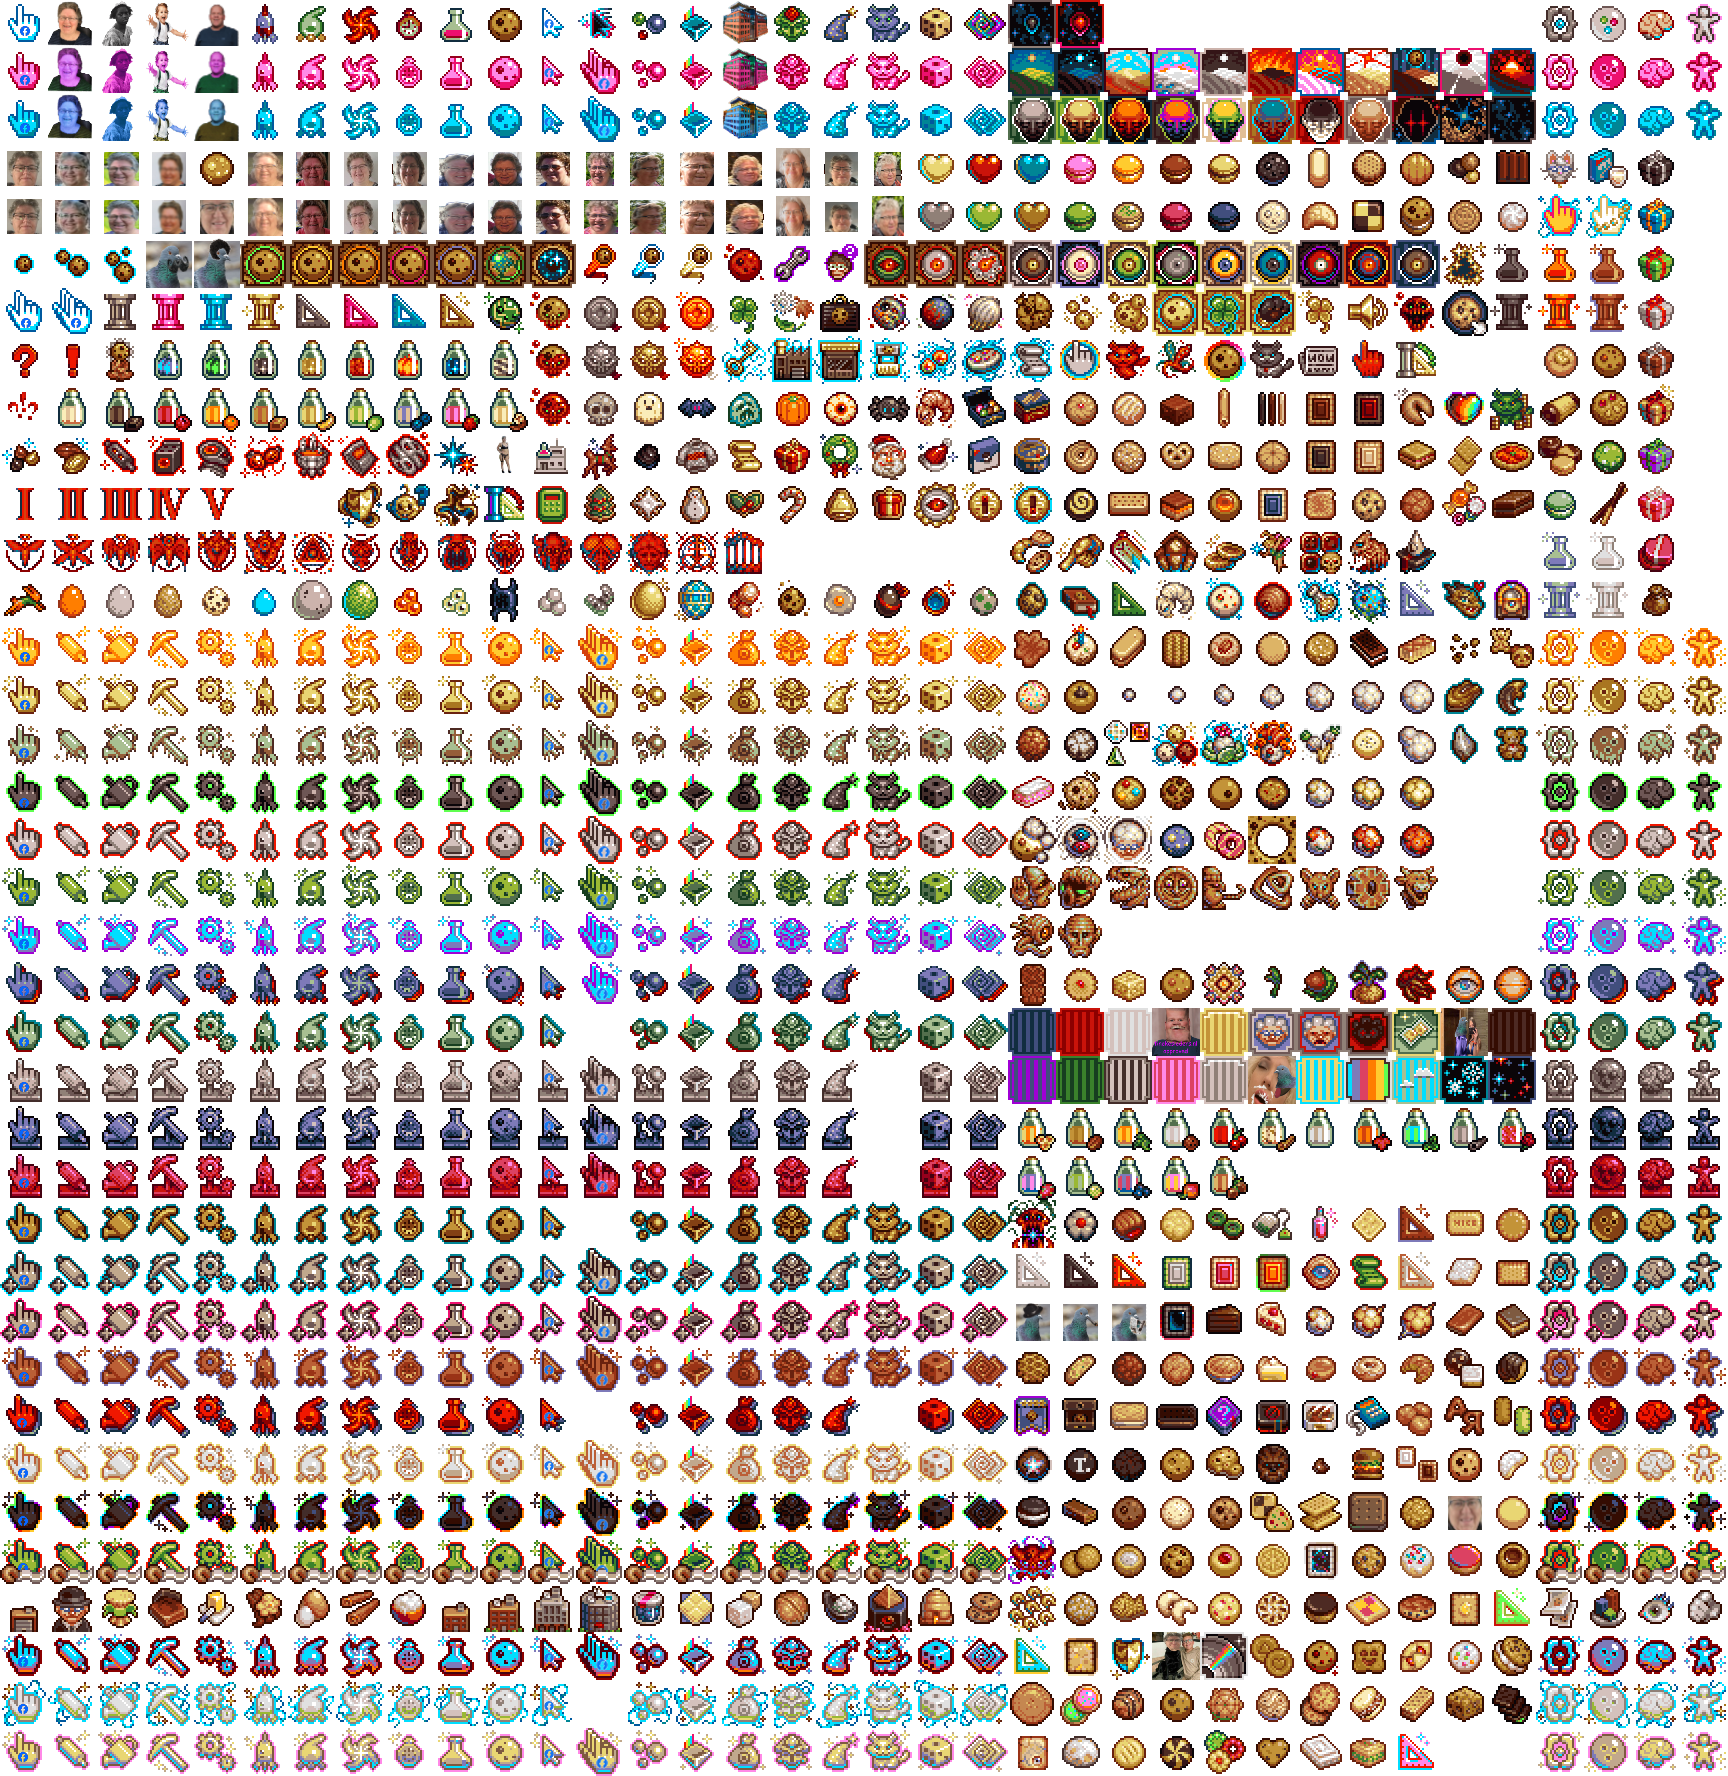
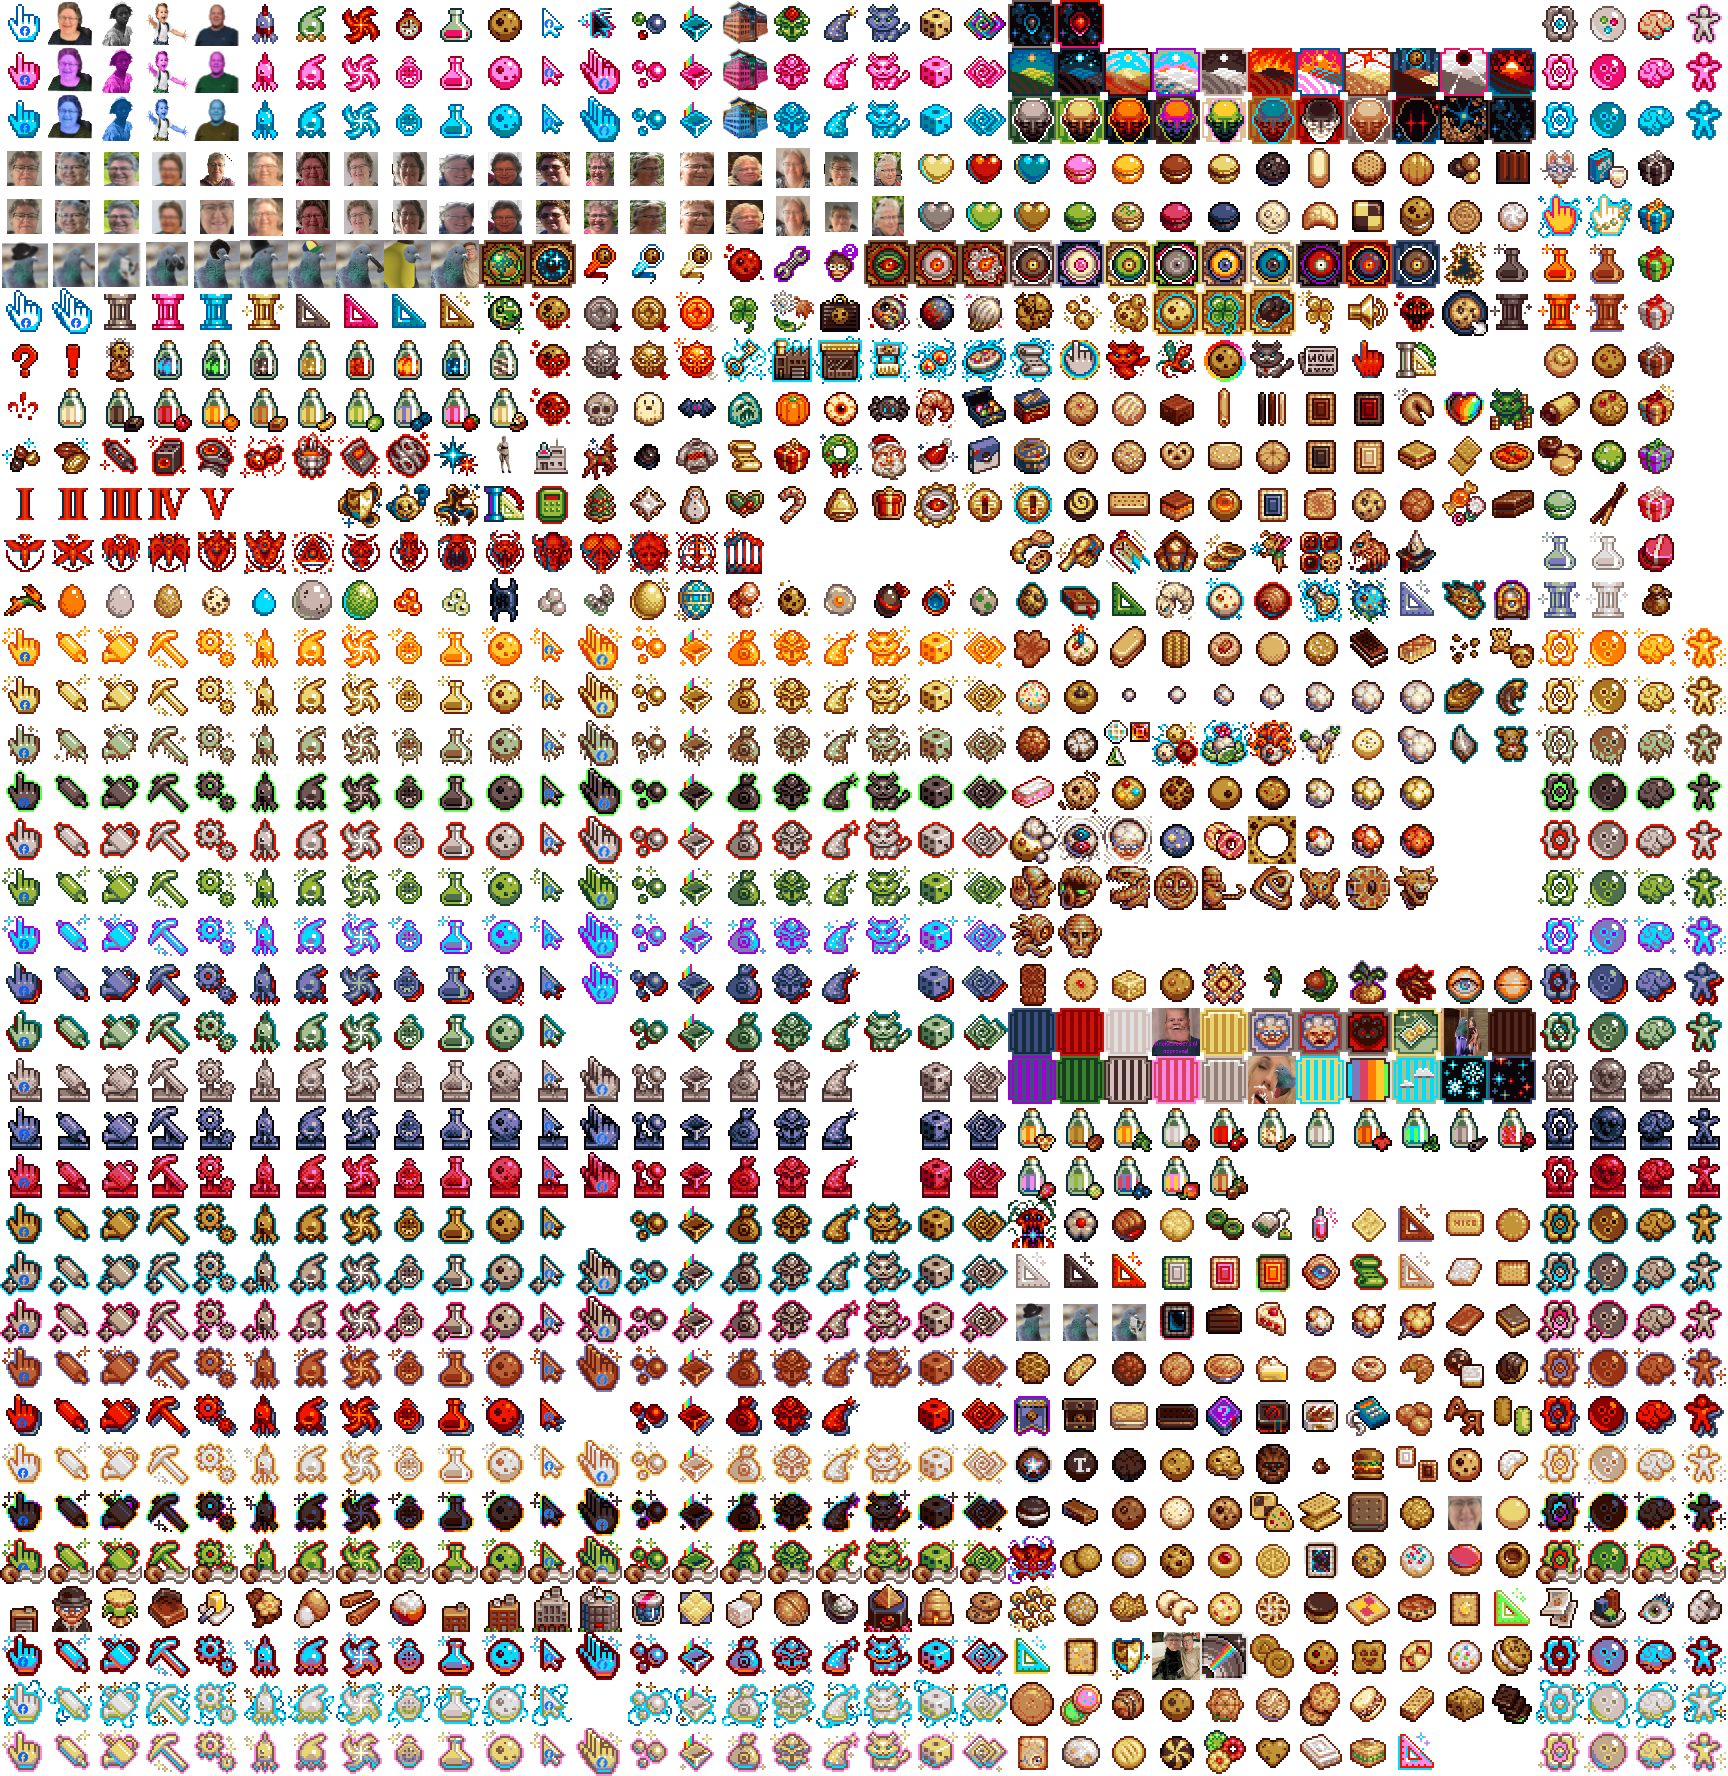
a

Changed region(s): [[0.0, 0.0929, 0.2812, 0.1858]]

diff --git a/loc/NL.js b/loc/NL.js
@@ -1444,7 +1444,7 @@ AddLanguage('NL','dutch',{
 	"Clot": "Prop",
 	"Dragon Harvest": "Drakenoogst",
 	"Everything must go": "Alles moet weg",
-	"Cursed finger": "Vervloekte vinger",
+	"Cursed finger": "Vervloekte Facebook Klikker",
 	"Cookie storm": "Koekjesstorm",
 	"Sugar blessing": "Suikerzegen",
 	"Haggler's luck": "Geluk van een pingelaar",
@@ -1493,7 +1493,7 @@ AddLanguage('NL','dutch',{
 	"Garden": "Tuin",
 	"Baker's wheat": "Bakkerstarwe",
 	"[Baker's wheat quote]A plentiful crop whose hardy grain is used to make flour for pastries.": "Een rijkelijk groeiend gewas waarvan het stevige graan wordt verwerkt tot meel om mee te bakken.",
-	"Thumbcorn": "Vingermaïs",
+	"Thumbcorn": "Facebook Klikker maïs",
 	"[Thumbcorn quote]A strangely-shaped variant of corn. The amount of strands that can sprout from one seed is usually in the single digits.": "Een maïskorrel met een bijzondere vorm. Het aantal uitlopers dat één korrel krijgt, is vaak op één hand te tellen.",
 	"Cronerice": "Karonjerijst",
 	"[Cronerice quote]Not only does this wrinkly bulb look nothing like rice, it's not even related to it either; its closest extant relative is the weeping willow.": "Dit verschrompelde zaadje lijkt niet op rijst en is er ook niet eens aan verwant. Hij is wel familie van de treurwilg.",
@@ -1868,13 +1868,13 @@ AddLanguage('NL','dutch',{
 	"Click to refill your opportunity timer (and give a quick burst to your economy) for %1.": "Klik om voor %1 je kansentimer bij te vullen (en geef je economie een snelle groei).",
 	"Profits: %1. All prices are in $econds of your highest raw cookies per second.": "Winst: %1. Alle prijzen zijn in seconden van je hoogste hoeveelheid rauwe koekjes per seconde.",
 	"The stock market is more chaotic.": "De aandelenmarkt is chaotischer.",
-	"[Upgrade name 0]Reinforced index finger": "Sterkere wijsvinger",
+	"[Upgrade name 0]Reinforced index finger": "Sterkere wijsende Facebook Klikker",
 	"[Upgrade name 1]Carpal tunnel prevention cream": "Crème tegen carpaletunnelsyndroom",
-	"[Upgrade name 2]Ambidextrous": "Met twee handen vingeren",
-	"[Upgrade name 3]Thousand fingers": "Duizend vingers",
-	"[Upgrade name 4]Million fingers": "Een miljoen vingers",
-	"[Upgrade name 5]Billion fingers": "Een miljard vingers",
-	"[Upgrade name 6]Trillion fingers": "Een biljoen vingers",
+	"[Upgrade name 2]Ambidextrous": "Met twee handen je moeder vingeren",
+	"[Upgrade name 3]Thousand fingers": "Duizend Facebook Klikkers",
+	"[Upgrade name 4]Million fingers": "Een miljoen Facebook Klikkers",
+	"[Upgrade name 5]Billion fingers": "Een miljard Facebook Klikkers",
+	"[Upgrade name 6]Trillion fingers": "Een biljoen Facebook Klikkers",
 	"[Upgrade name 7]Forwards from grandma": "Verder met oma neuken",
 	"[Upgrade name 8]Steel-plated rolling pins": "Stalen deegrollers in tineke's kutje",
 	"[Upgrade name 9]Lubricated dentures": "Gesmeerd gebit",
@@ -1911,7 +1911,7 @@ AddLanguage('NL','dutch',{
 	"[Upgrade name 40]Double-chip cookies": "Tineke's Koekjes met extra chocolade",
 	"[Upgrade name 41]White chocolate macadamia nut cookies": "Tineke's Macadamiakoekjes met witte chocolade",
 	"[Upgrade name 42]All-chocolate cookies": "Tineke's Koekjes met alleen chocolade",
-	"[Upgrade name 43]Quadrillion fingers": "Een biljard vingers",
+	"[Upgrade name 43]Quadrillion fingers": "Een biljard Facebook Klikkers",
 	"[Upgrade name 44]Prune juice": "Vaginalesap",
 	"[Upgrade name 45]Genetically-modified cookies": "Genetisch gemanipuleerde Tineke koekjes",
 	"[Upgrade name 46]Radium reactors": "Radiumreactors",
@@ -1950,7 +1950,7 @@ AddLanguage('NL','dutch',{
 	"[Upgrade name 79]Ultrascience": "Ultrawetenschap",
 	"[Upgrade name 80]Eclipse cookies": "Eclips tineke koekjes",
 	"[Upgrade name 81]Zebra cookies": "Zebra tineke koekjes",
-	"[Upgrade name 82]Quintillion fingers": "Een triljoen vingers",
+	"[Upgrade name 82]Quintillion fingers": "Een triljoen Facebook Klikkers",
 	"[Upgrade name 83]Gold hoard": "Gouden verzameling",
 	"[Upgrade name 84]Elder Covenant": "Ouderlingenverbond",
 	"[Upgrade name 85]Revoke Elder Covenant": "Ouderlingenverbond intrekken",
@@ -1977,7 +1977,7 @@ AddLanguage('NL','dutch',{
 	"[Upgrade name 106]Palets": "Palets",
 	"[Upgrade name 107]Sabl&eacute;s": "Zand tineke koekjes",
 	"[Upgrade name 108]Kitten overseers": "Kattenopzichters",
-	"[Upgrade name 109]Sextillion fingers": "Een triljard vingers",
+	"[Upgrade name 109]Sextillion fingers": "Een triljard Facebook Klikkers",
 	"[Upgrade name 110]Double-thick glasses": "Dikke bril",
 	"[Upgrade name 111]Gingerbread scarecrows": "Vogelverschrikkers van gemberkoek",
 	"[Upgrade name 112]Recombobulators": "Recombobulators",
@@ -2056,8 +2056,8 @@ AddLanguage('NL','dutch',{
 	"[Upgrade name 185]Fool's biscuit": "Dwazenkoekje",
 	"[Upgrade name 186]Eternal seasons": "Eeuwige evenementen",
 	"[Upgrade name 187]Kitten managers": "Kattenmanagers",
-	"[Upgrade name 188]Septillion fingers": "Quadriljoen vingers",
-	"[Upgrade name 189]Octillion fingers": "Quadriljard vingers",
+	"[Upgrade name 188]Septillion fingers": "Quadriljoen Facebook Klikkers",
+	"[Upgrade name 189]Octillion fingers": "Quadriljard Facebook Klikkers",
 	"[Upgrade name 190]Eludium mouse": "Eludium muis",
 	"[Upgrade name 191]Wishalloy mouse": "Muis van wenslegering",
 	"[Upgrade name 192]Aging agents": "Oma-arbeid",
@@ -2126,7 +2126,7 @@ AddLanguage('NL','dutch',{
 	"[Upgrade name 255]Box of brand biscuits": "Doos merk tineke koekjes",
 	"[Upgrade name 256]Pure black chocolate cookies": "Pure-chocolade tineke koekjes",
 	"[Upgrade name 257]Pure white chocolate cookies": "Witte-chocolade tineke koekjes",
-	"[Upgrade name 258]Ladyfingers": "Lange vingers",
+	"[Upgrade name 258]Ladyfingers": "Lange Facebook Klikkers",
 	"[Upgrade name 259]Tuiles": "Tuiles",
 	"[Upgrade name 260]Chocolate-stuffed biscuits": "Tineke Koekjes met chocoladevulling",
 	"[Upgrade name 261]Checker cookies": "Dambord tineke koekjes",
@@ -2212,7 +2212,7 @@ AddLanguage('NL','dutch',{
 	"[Upgrade name 341]Cigars": "Sigaren tineke koekjes",
 	"[Upgrade name 342]Pinwheel cookies": "Molenkoekje",
 	"[Upgrade name 343]Fudge squares": "Fudge",
-	"[Upgrade name 344]Digits": "Vinger tineke koekjes",
+	"[Upgrade name 344]Digits": "Facebook Klikker met Tineke Koekjes",
 	"[Upgrade name 345]Butter horseshoes": "Hoefijzer tineke koekjes",
 	"[Upgrade name 346]Butter pucks": "Boterpucks",
 	"[Upgrade name 347]Butter knots": "Boterkrakelingen",
@@ -2236,7 +2236,7 @@ AddLanguage('NL','dutch',{
 	"[Upgrade name 365]Residual luck": "Restgeluk",
 	"[Upgrade name 366]Fantasteel mouse": "Fantastalen muis",
 	"[Upgrade name 367]Nevercrack mouse": "Onbreekbare muis",
-	"[Upgrade name 368]Five-finger discount": "Korting bij vijf vingers",
+	"[Upgrade name 368]Five-finger discount": "Korting bij vijf Facebook Klikkers",
 	"[Upgrade name 369]Future almanacs": "Almanaks uit de toekomst",
 	"[Upgrade name 370]Rain prayer": "Regengebed",
 	"[Upgrade name 371]Seismic magic": "Seismische magie",
@@ -2528,7 +2528,7 @@ AddLanguage('NL','dutch',{
 	"[Upgrade name 657]Taiyaki": "Taiyaki",
 	"[Upgrade name 658]Vanillekipferl": "Vanillekipferl",
 	"[Upgrade name 659]Cosmic chocolate butter biscuit": "Kosmisch chocoladeboterkoekje",
-	"[Upgrade name 660]Nonillion fingers": "Quintiljoen vingers",
+	"[Upgrade name 660]Nonillion fingers": "Quintiljoen Facebook Klikkers",
 	"[Upgrade name 661]Miraculite mouse": "Miraculieten muis",
 	"[Upgrade name 662]Generation degeneration": "Degeneratie van de generatie",
 	"[Upgrade name 663]Global seed vault": "Enorme zaadkluis",
@@ -2632,7 +2632,7 @@ AddLanguage('NL','dutch',{
 	"[Upgrade name 761]Thoughts & prayers": "Gedachten en gebeden",
 	"[Upgrade name 762]Fertile minds": "Vruchtbare denkers",
 	"[Upgrade name 763]Fortune #019": "Geluk nr. 019",
-	"[Upgrade name 764]Decillion fingers": "Deciljoen vingers",
+	"[Upgrade name 764]Decillion fingers": "Deciljoen Facebook Klikkers",
 	"[Upgrade name 765]Aetherice mouse": "Etherijs muis",
 	"[Upgrade name 766]Kitten admins": "Katten-admins",
 	"[Upgrade name 767]Everybutter biscuit": "Alleboterkoekje",
@@ -2741,7 +2741,7 @@ AddLanguage('NL','dutch',{
 	"[Upgrade name 870]Spritz cookies": "Spritz tineke koekjes",
 	"[Upgrade name 871]Mbatata cookies": "Mbatata tineke koekjes",
 	"[Upgrade name 872]Springerles": "Springerles",
-	"[Upgrade name 873]Undecillion fingers": "Sextiljoen vingers",
+	"[Upgrade name 873]Undecillion fingers": "Sextiljoen Facebook Klikkers",
 	"[Upgrade name 874]Omniplast mouse": "Omniplastmuis",
 	"[Achievement name 0]Wake and bake": "Wakker en aan het bakken",
 	"[Achievement name 1]Making some dough": "Wat deeg aan het maken",
@@ -2932,7 +2932,7 @@ AddLanguage('NL','dutch',{
 	"[Achievement name 186]Vested interest": "Gevestigde belangen",
 	"[Achievement name 187]New world order": "Nieuwe wereldorde",
 	"[Achievement name 188]Hocus pocus": "Hocus Pocus",
-	"[Achievement name 189]Finger clickin' good": "Daar klik je je vingers bij af",
+	"[Achievement name 189]Finger clickin' good": "Daar klik je je Facebook Klikkers bij af",
 	"[Achievement name 190]Panic at the bingo": "Paniek bij de bingo",
 	"[Achievement name 191]Rake in the dough": "Hark het deeg naar binnen",
 	"[Achievement name 192]Quarry on": "Ga zo door",
@@ -2989,7 +2989,7 @@ AddLanguage('NL','dutch',{
 	"[Achievement name 243]Tabloid addiction": "Nieuwsverslaafd",
 	"[Achievement name 244]Clickastrophe": "Klikramp",
 	"[Achievement name 245]Clickataclysm": "Klikaclysme",
-	"[Achievement name 246]Thumbs, phalanges, metacarpals": "Duimen en vingerkootjes",
+	"[Achievement name 246]Thumbs, phalanges, metacarpals": "Duimen en Facebook Klikkers",
 	"[Achievement name 247]Polymath": "Polyhistor",
 	"[Achievement name 248]The elder scrolls": "De ouderlingengeschriften",
 	"[Achievement name 249]To crumbs, you say?": "Alles verkruimelen dus?",
@@ -3050,7 +3050,7 @@ AddLanguage('NL','dutch',{
 	"[Achievement name 304]D&eacute;j&agrave; vu": "Déja vu",
 	"[Achievement name 305]Powers of Ten": "Machten van tien",
 	"[Achievement name 306]Now the dark days are gone": "Nu zijn de donkere dagen voorbij",
-	"[Achievement name 307]Freaky jazz hands": "Bizar snelle vingers",
+	"[Achievement name 307]Freaky jazz hands": "Bizar snelle Facebook Klikkers",
 	"[Achievement name 308]Methuselah": "Metusalem",
 	"[Achievement name 309]Huge tracts of land": "Heel veel land",
 	"[Achievement name 310]D-d-d-d-deeper": "Je gaat steeds dieper",
@@ -3141,7 +3141,7 @@ AddLanguage('NL','dutch',{
 	"[Achievement name 395]Quincentennial": "Vijfhonderd",
 	"[Achievement name 396]Maillard reaction": "Maillardreactie",
 	"[Achievement name 397]When the cookies ascend just right": "Als de tineke koekjes precies goed opstijgen",
-	"[Achievement name 398]With her finger and her thumb": "Met een vinger en een duim",
+	"[Achievement name 398]With her finger and her thumb": "Met een Facebook Klikker en een duim",
 	"[Achievement name 399]Defense of the ancients": "Verdediging van de bejaarden",
 	"[Achievement name 400]Sharpest tool in the shed": "Ik ben toevallig wel de slimste",
 	"[Achievement name 401]Hey now, you're a rock": "Genoeg rotsen om in te hakken",

diff --git a/main.js b/main.js
@@ -1345,10 +1345,13 @@ Game.Launch=function()
 	'<div class="listing">&bull; 2x Nieuwe Gebouwen.</div>'+
 	'<div class="listing">&bull; 3x Nieuwe achtergrond!!</div>'+
 	'<div class="listing">&bull; Achtergrond van Jan Eradus & Banaan Joran zijn veranderd naar de goeie.</div>'+
-	'<div class="listing">&bull; Sommige icoontjes hebben een duif, Henry de duif.</div>'+
+	'<div class="listing">&bull; Sommige koekjes bij Stats & Upgrades hebben een duif, Henry de duif.</div>'+
     '<div class="listing">&bull; Een paar upgrades hebben een andere naam of een plaatje.</div>'+
 	'<div class="listing">&bull; Achtergronden in het spel zijn anders.</div>'+
 	'<div class="listing">&bull; De icoontjes van de achtergronden zijn net als de achtergrond.</div>'+
+	'<div class="listing">&bull; 20x Upgrade namen zijn anders.</div>'+
+	'<div class="listing">&bull; leeg.</div>'+
+	'<div class="listing">&bull; leeg.</div>'+
 	
 	'</div><div class="subsection update">'+
 	'<div class="title">28/04/2025 - GROTE UPDATE!!! (BUGFIXES)</div>'+
